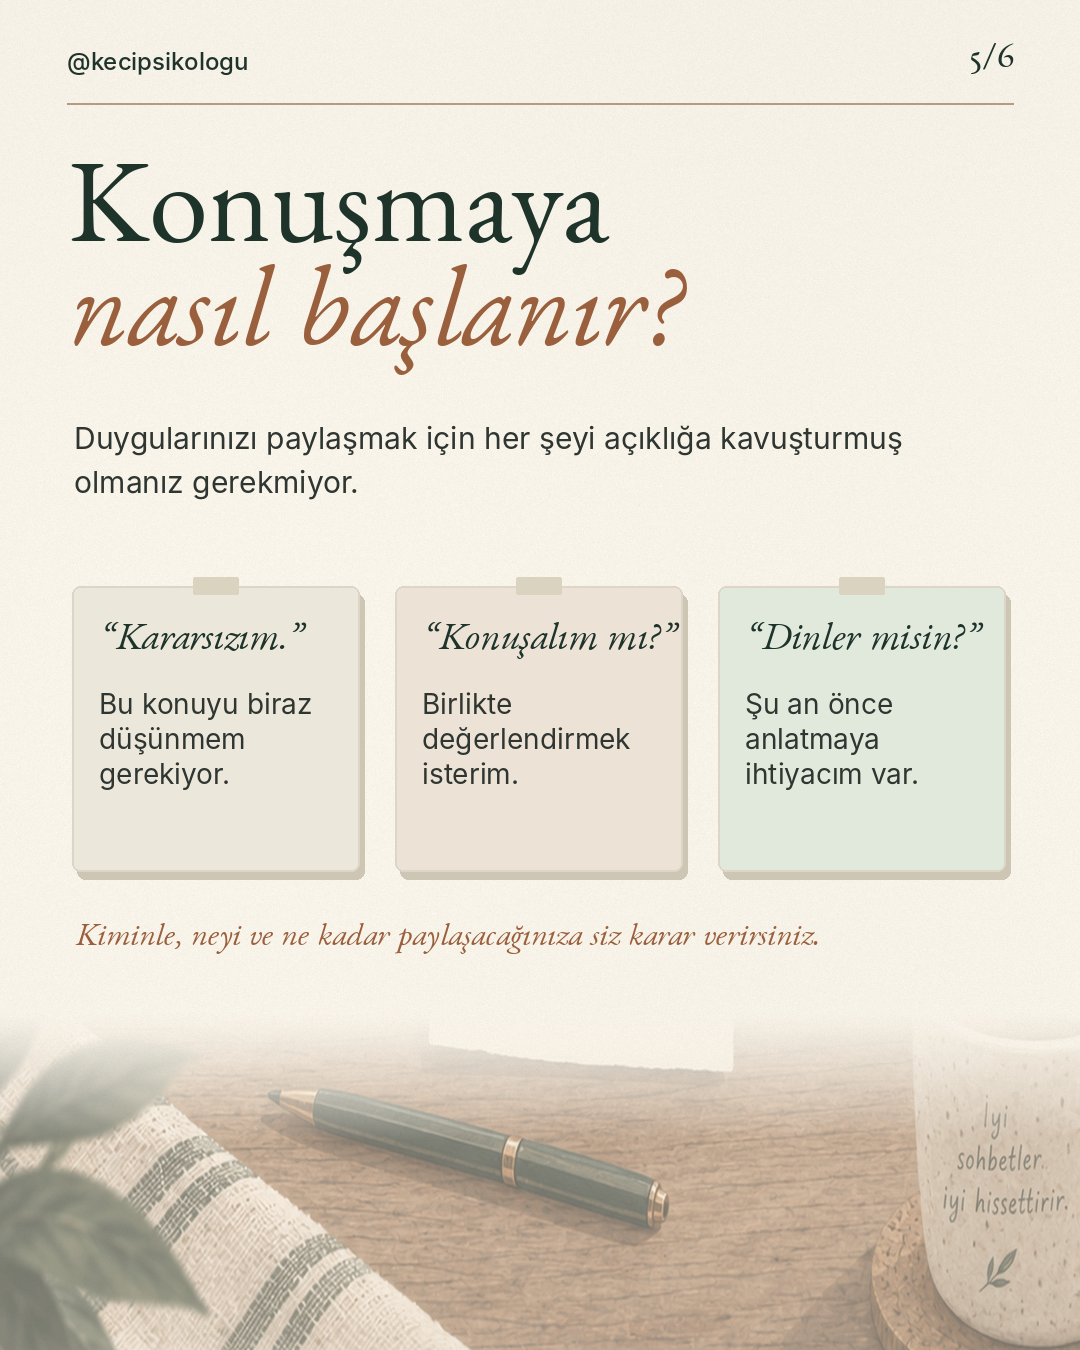
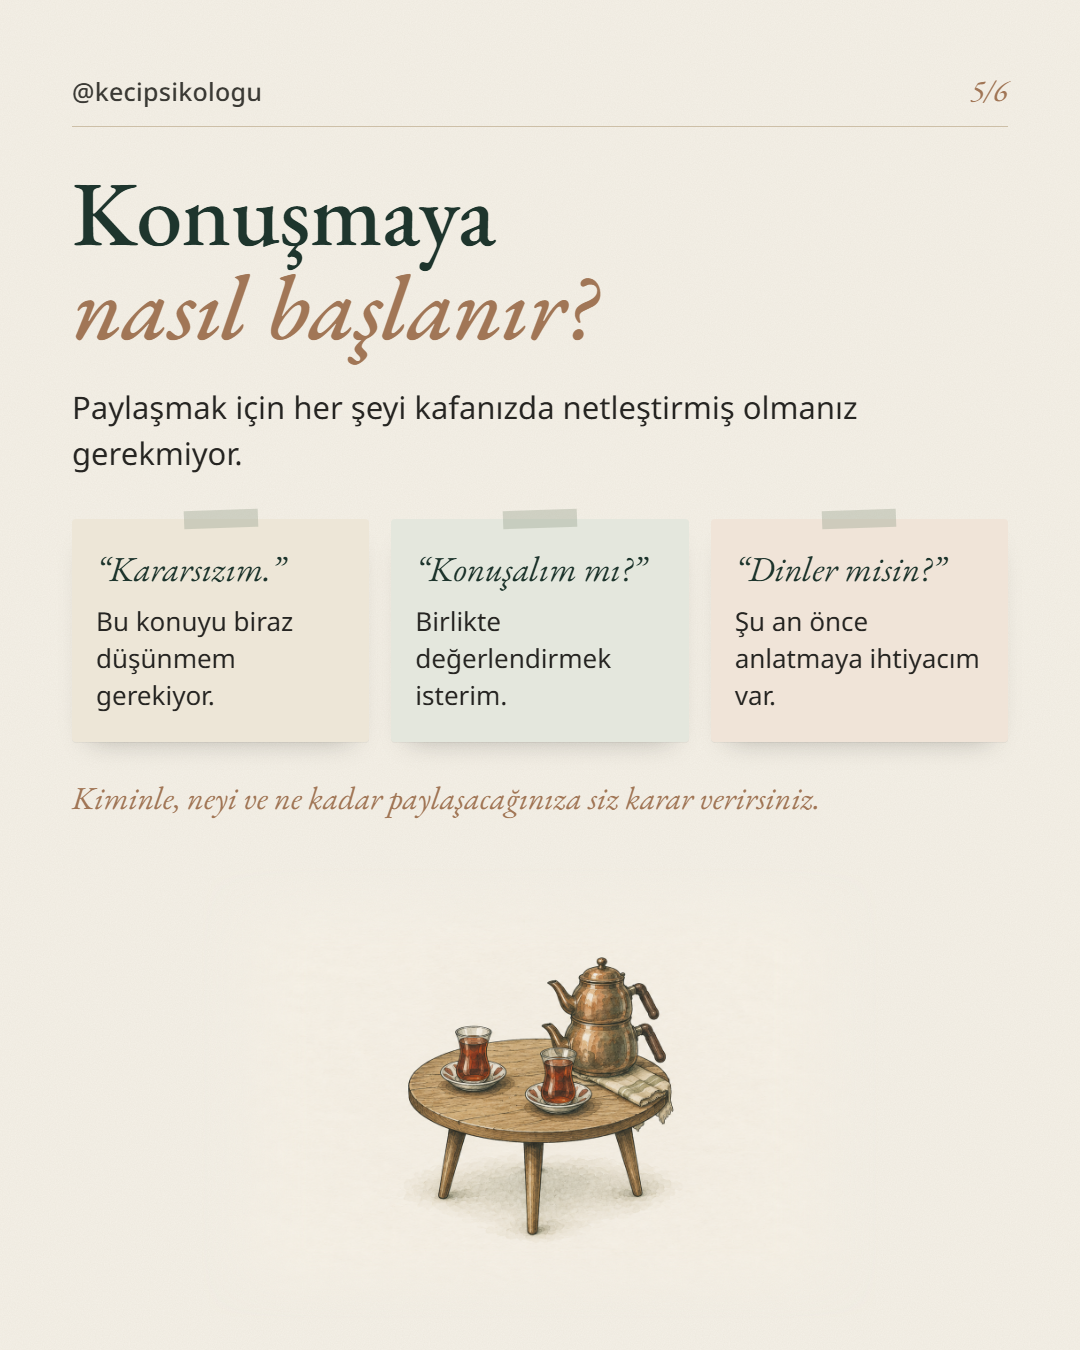
feat(posts): replace 10-11 and 10-13 carousels with the 2D rebuilds
Slides, captions and alt texts now match the Buffer queue as verified
after reload: ink-and-watercolor illustrations (textless), text set in
HTML and rendered to 1080x1350 PNG, CTA line restored in both captions.

Claude-Session: https://claude.ai/code/session_01YRjYDNXAqdazCHQBaajULc

diff --git a/posts/2026-10-13-takviminiz-dolu/caption.md b/posts/2026-10-13-takviminiz-dolu/caption.md
@@ -8,4 +8,6 @@ Bu hafta takviminizden tek bir sorumluluk seçin. Ona ne zaman, hangi gerekçeyl
 
 İsterseniz bir kâğıdı üç başlığa ayırın: Seçtiklerim, üstlendiklerim, gözden geçireceklerim. Bu başlıklar kişisel düşünme için birer başlangıç noktası.
 
+Sorumluluklarınızı bir uzmanla birlikte gözden geçirmek isterseniz, psikolojik danışmanlık hizmeti için profildeki bağlantıdan ulaşabilirsiniz.
+
 #psikoloji #psikoeğitim #değerler #yaşamdengesi #özfarkındalık

diff --git a/posts/2026-10-11-her-seyi-halleden-kisi/caption.md b/posts/2026-10-11-her-seyi-halleden-kisi/caption.md
@@ -8,4 +8,6 @@ Bazen konuşmaya şu cümleyle başlanabilir: “Bu konuda kararsızım. Biraz b
 
 Siz kimin yanında henüz cevabını bilmediğiniz bir şeyi rahatlıkla söyleyebiliyorsunuz?
 
+Bu tür yükleri bir uzmanla birlikte düşünmek isterseniz, psikolojik danışmanlık hizmeti için profildeki bağlantıdan ulaşabilirsiniz.
+
 #psikoloji #psikoeğitim #sorumluluk #ilişkiler #özfarkındalık
